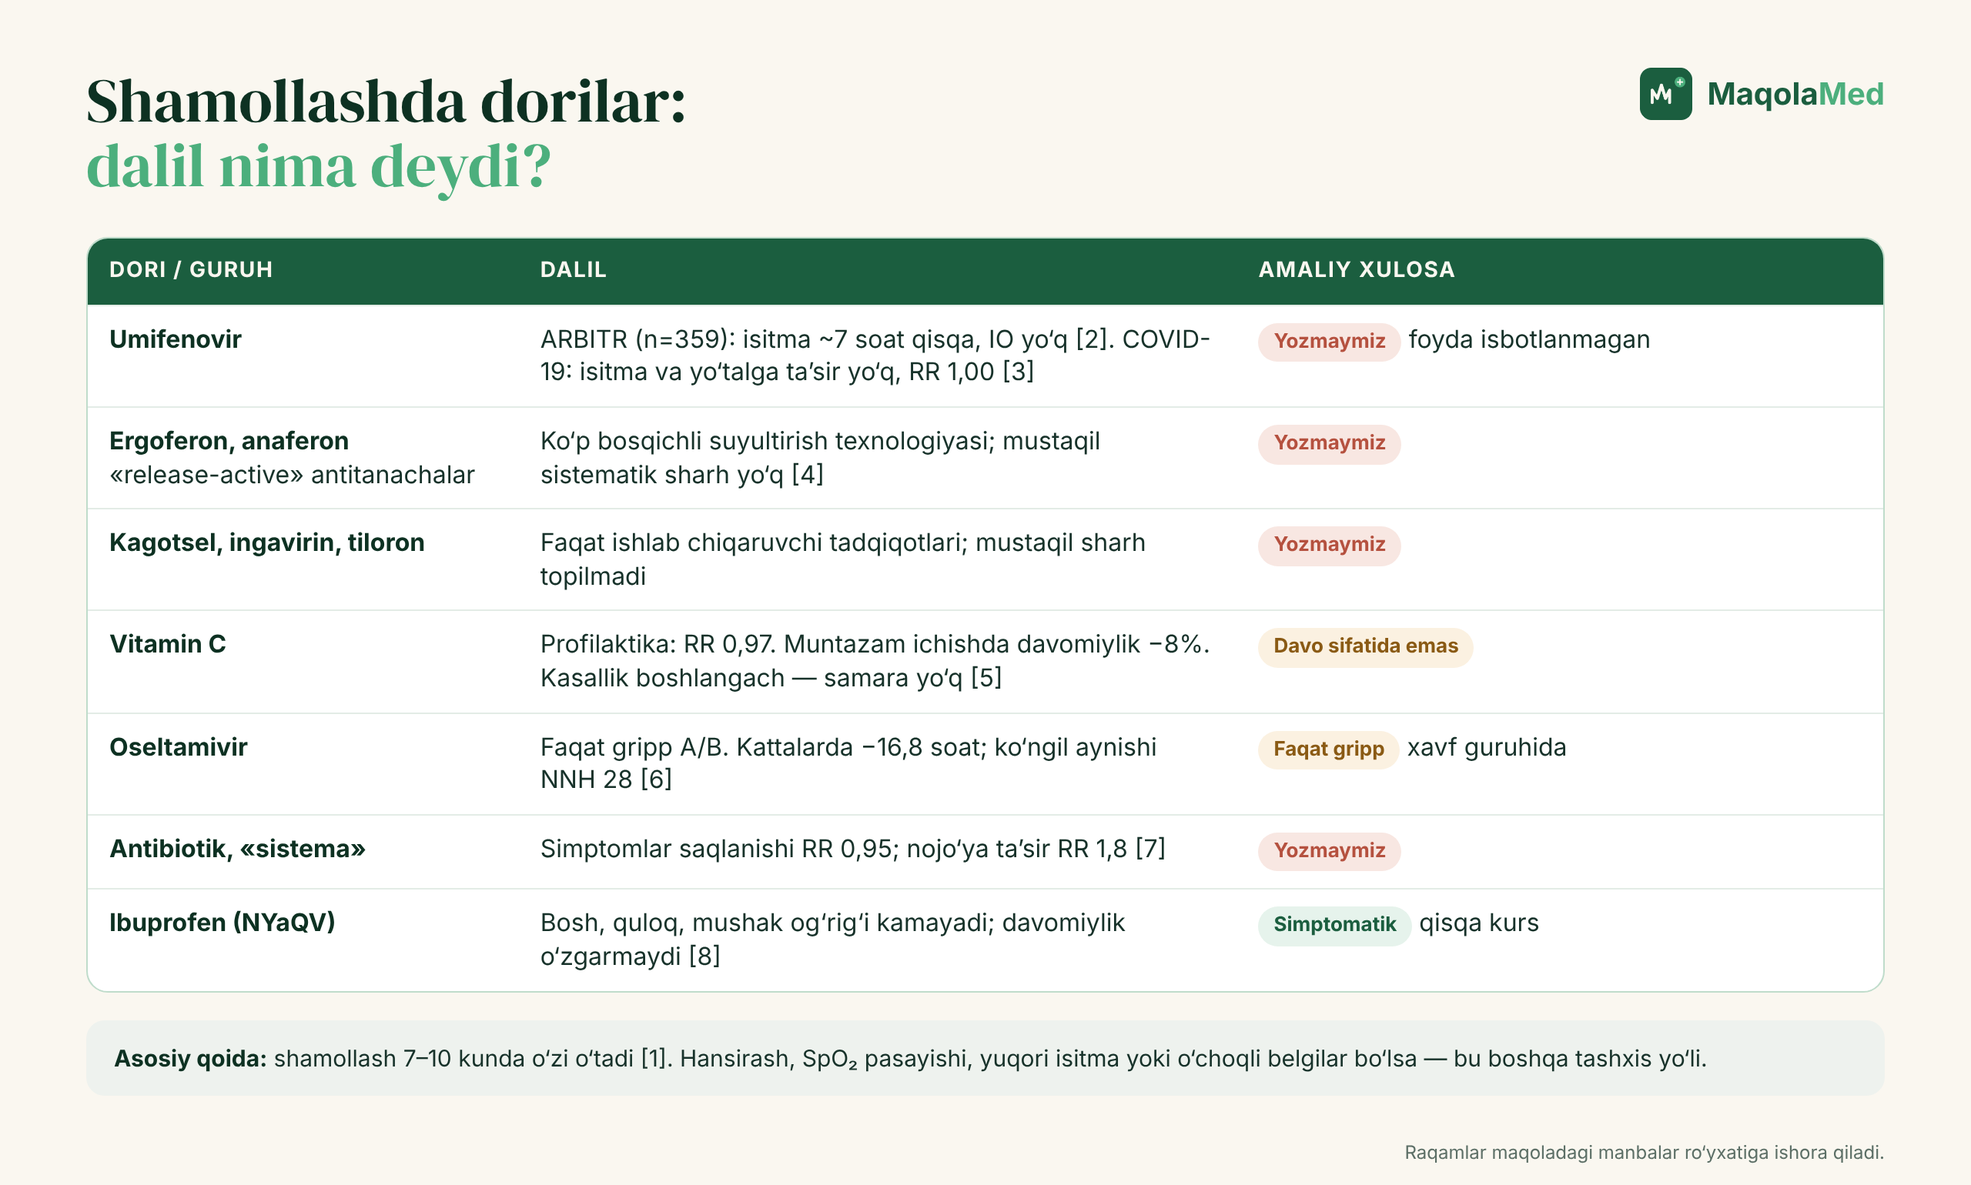
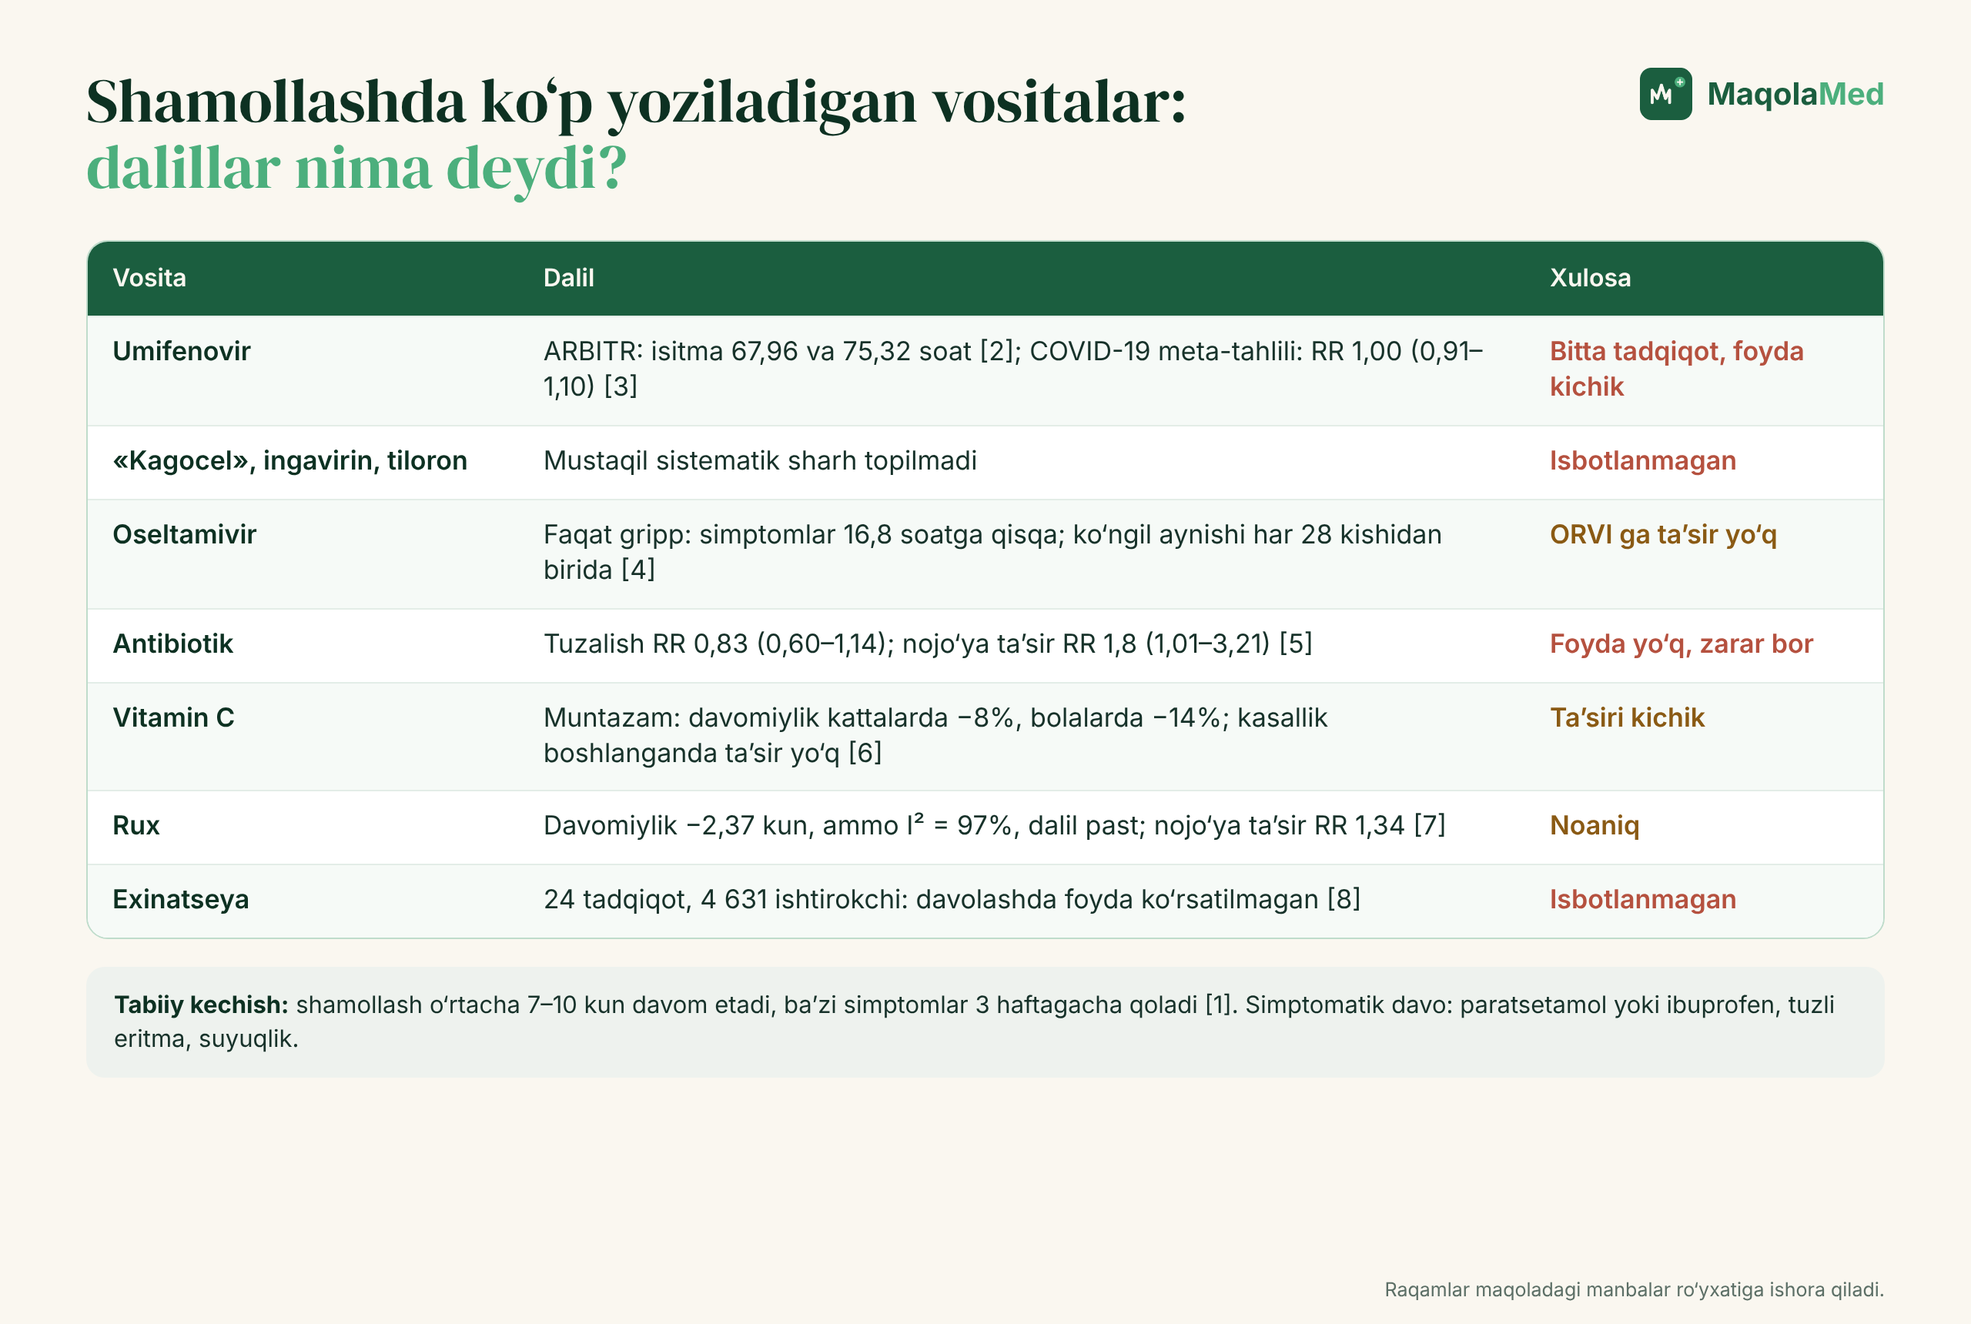
30-noyabr maqolasi qayta yozildi (v2, humanizer): shamollashda «virusga qarshi» dorilar — muqovalar, 1 rasm

diff --git a/_manba/2026-11-30/muqova-instagram-4x5.html b/_manba/2026-11-30/muqova-instagram-4x5.html
@@ -1,0 +1,84 @@
+<!doctype html>
+<html lang="uz">
+<head>
+<meta charset="utf-8"><base href="file:///home/claude/maqolamed-rasmlar/_shablon/">
+<style>
+@font-face{font-family:"DM Serif Display";src:url("fonts/dm-serif-display-latin-400-normal.woff2") format("woff2");}
+@font-face{font-family:"DM Serif Display";src:url("fonts/dm-serif-display-latin-ext-400-normal.woff2") format("woff2");unicode-range:U+0100-024F,U+1E00-1EFF;}
+:root{
+  --emerald:#1B5E3F; --deep:#0D3122; --cream:#FAF7F0; --mint:#7FC9A0; --green:#4CAF7D;
+}
+*{margin:0;padding:0;box-sizing:border-box}
+html,body{width:1280px;height:720px;overflow:hidden;background:var(--deep)}
+.cover{position:relative;width:1280px;height:720px;overflow:hidden;font-family:"Inter",sans-serif;color:var(--cream);
+  background:
+    radial-gradient(900px 600px at 78% 40%, rgba(76,175,125,.22), transparent 60%),
+    radial-gradient(700px 500px at 0% 100%, rgba(13,49,34,.9), transparent 70%),
+    linear-gradient(135deg,#123F2C 0%, #1B5E3F 55%, #164D34 100%);}
+.grid{position:absolute;inset:0;background-image:
+    linear-gradient(rgba(250,247,240,.035) 1px,transparent 1px),
+    linear-gradient(90deg,rgba(250,247,240,.035) 1px,transparent 1px);
+  background-size:40px 40px;}
+.ekg{position:absolute;left:0;top:300px;width:1280px;height:200px;opacity:.16}
+.left{position:absolute;left:64px;top:52px;width:690px}
+.brand{display:flex;align-items:center;gap:28px}
+.brand img{height:62px;display:block}
+.tag{display:flex;align-items:center;gap:14px;font-size:13px;letter-spacing:.32em;color:rgba(250,247,240,.72);font-weight:500}
+.tag i{width:4px;height:4px;border-radius:50%;background:var(--mint);display:inline-block}
+.tag .line{width:90px;height:1px;background:rgba(250,247,240,.35)}
+.kicker{margin-top:54px;display:inline-flex;align-items:center;gap:10px;font-size:15px;font-weight:600;letter-spacing:.14em;text-transform:uppercase;color:var(--mint)}
+.kicker span{display:inline-block;width:28px;height:2px;background:var(--mint)}
+h1{margin-top:16px;font-family:"DM Serif Display",serif;font-weight:400;font-size:78px;line-height:.98;letter-spacing:-.01em;color:var(--cream)}
+h1 em{font-style:normal;color:var(--mint)}
+.sub{margin-top:22px;font-size:21px;color:rgba(250,247,240,.82);font-weight:400}
+.points{position:absolute;left:64px;bottom:50px;display:flex;gap:0}
+.pt{width:172px;padding-right:18px;display:flex;flex-direction:column;align-items:flex-start;gap:12px}
+.pt + .pt{padding-left:22px;border-left:1px solid rgba(250,247,240,.18)}
+.ic{width:52px;height:52px;border-radius:50%;border:1.6px solid rgba(250,247,240,.75);display:grid;place-items:center}
+.ic svg{width:26px;height:26px;stroke:var(--cream);fill:none;stroke-width:1.7;stroke-linecap:round;stroke-linejoin:round}
+.pt p{font-size:15px;line-height:1.3;color:rgba(250,247,240,.92);font-weight:500}
+.card{position:absolute;right:56px;top:96px;width:400px;border-radius:22px;padding:28px 30px 26px;
+  background:linear-gradient(160deg,rgba(13,49,34,.82),rgba(13,49,34,.62));
+  border:1px solid rgba(127,201,160,.35);box-shadow:0 30px 60px rgba(0,0,0,.35)}
+.card .ch{display:flex;justify-content:space-between;align-items:center}
+.card .lbl{font-size:12px;letter-spacing:.24em;font-weight:600;color:var(--mint)}
+.card .pill{font-size:12px;font-weight:600;padding:5px 10px;border-radius:999px;background:rgba(127,201,160,.16);color:var(--mint)}
+.card h3{margin-top:14px;font-size:22px;font-weight:600}
+.card h3 small{display:block;margin-top:4px;font-size:14px;font-weight:400;color:rgba(250,247,240,.65)}
+.rows{margin-top:18px;border-top:1px solid rgba(250,247,240,.14)}
+.row{display:flex;justify-content:space-between;padding:9px 0;border-bottom:1px solid rgba(250,247,240,.10);font-size:16px}
+.row span:first-child{color:rgba(250,247,240,.68)}
+.row span:last-child{font-weight:600;font-variant-numeric:tabular-nums}
+.row .ok{color:var(--mint)}
+.quote{margin-top:18px;font-family:"DM Serif Display",serif;font-size:21px;line-height:1.25;color:var(--cream)}
+.ask{margin-top:16px;display:flex;align-items:center;justify-content:space-between;padding:13px 16px;border-radius:12px;background:var(--green);color:#0D3122;font-weight:700;font-size:17px}
+.ask svg{width:22px;height:22px;stroke:#0D3122;fill:none;stroke-width:2.2;stroke-linecap:round;stroke-linejoin:round}
+
+html,body{width:1080px;height:1350px}
+.cover{width:1080px;height:1350px}
+.ekg{top:525px;width:1080px}
+.left{left:72px;top:64px;width:940px}
+.brand img{height:72px}
+h1{font-size:96px;margin-top:18px}
+.kicker{margin-top:56px;font-size:17px}
+.sub{font-size:24px}
+.card{left:72px;right:72px;top:auto;bottom:250px;width:auto;padding:30px 34px}
+.rows{display:grid;grid-template-columns:1fr 1fr;column-gap:40px}
+.quote{font-size:24px}
+.points{left:72px;right:72px;bottom:60px}
+.pt{width:auto;flex:1}
+.pt p{font-size:17px}
+
+</style>
+</head>
+<body><div class="cover"><div class="grid"></div>
+<svg class="ekg" viewBox="0 0 1280 200" preserveAspectRatio="none"><polyline fill="none" stroke="#7FC9A0" stroke-width="3" stroke-linejoin="round" stroke-linecap="round" points="0,120 640,120 670,120 690,98 710,120 750,120 770,40 795,175 820,120 880,120 905,102 930,120 1280,120"/></svg>
+<div class="left"><div class="brand"><img src="logo_dark_bg.png" alt="MaqolaMed"></div>
+<div class="tag" style="margin-top:22px"><span>ILM</span><i></i><span>AMALIYOT</span><i></i><span>ODAM UCHUN</span><span class="line"></span></div>
+<div class="kicker"><span></span>Afsona va dalil · Infeksion kasalliklar</div>
+<h1>Shamollashda<br>«virusga qarshi»<br><em>dorilar: 4 afsona</em></h1>
+<div class="sub">Umifenovirdan vitamin C gacha: dalillar nima deydi.</div></div>
+<div class="points"><div class="pt"><div class="ic"><svg viewBox="0 0 24 24"><rect x="3" y="8.5" width="18" height="7" rx="3.5" transform="rotate(-40 12 12)"/><path d="M9.3 9.3l5.4 5.4"/></svg></div><p>Umifenovir nima beradi?</p></div><div class="pt"><div class="ic"><svg viewBox="0 0 24 24"><circle cx="12" cy="12" r="9"/><path d="M9.5 9.5a2.5 2.5 0 1 1 3.5 2.3c-.7.3-1 .8-1 1.5v.7"/><path d="M12 17v.5"/></svg></div><p>Oseltamivir kimga kerak?</p></div><div class="pt"><div class="ic"><svg viewBox="0 0 24 24"><path d="M12 3l9.5 17h-19z"/><path d="M12 10v4.5"/><path d="M12 17.5v.3"/></svg></div><p>Antibiotik asoratdan saqlaydimi?</p></div><div class="pt"><div class="ic"><svg viewBox="0 0 24 24"><path d="M12 3l8 3v6c0 5-3.5 8-8 9-4.5-1-8-4-8-9V6z"/></svg></div><p>Vitamin C va rux yordam beradimi?</p></div></div>
+<div class="card"><div class="ch"><span class="lbl">AFSONA → DALIL</span><span class="pill">4 afsona</span></div>
+<h3>Shamollash va dorilar<small>Cochrane va RNTlar bo‘yicha</small></h3><div class="rows"><div class="row"><span>Virusga qarshi dori tuzatadi</span><span class="ok">isitma ~7 soat</span></div><div class="row"><span>Oseltamivir har qanday ORVI ga</span><span class="ok">faqat gripp</span></div><div class="row"><span>Antibiotik asoratdan saqlaydi</span><span class="ok">foyda yo‘q</span></div><div class="row"><span>Vitamin C, rux kasallikni qisqartiradi</span><span class="ok">ta’sir kichik</span></div></div><div class="quote">«Hammasini birga ichsam bo‘ladimi?»</div><div class="ask">Siz nima deysiz?<svg viewBox="0 0 24 24"><path d="M5 12h14"/><path d="M13 6l6 6-6 6"/></svg></div></div>
+</div></body></html>

diff --git a/_manba/2026-11-30/muqova-16x9.html b/_manba/2026-11-30/muqova-16x9.html
@@ -1,0 +1,69 @@
+<!doctype html>
+<html lang="uz">
+<head>
+<meta charset="utf-8"><base href="file:///home/claude/maqolamed-rasmlar/_shablon/">
+<style>
+@font-face{font-family:"DM Serif Display";src:url("fonts/dm-serif-display-latin-400-normal.woff2") format("woff2");}
+@font-face{font-family:"DM Serif Display";src:url("fonts/dm-serif-display-latin-ext-400-normal.woff2") format("woff2");unicode-range:U+0100-024F,U+1E00-1EFF;}
+:root{
+  --emerald:#1B5E3F; --deep:#0D3122; --cream:#FAF7F0; --mint:#7FC9A0; --green:#4CAF7D;
+}
+*{margin:0;padding:0;box-sizing:border-box}
+html,body{width:1280px;height:720px;overflow:hidden;background:var(--deep)}
+.cover{position:relative;width:1280px;height:720px;overflow:hidden;font-family:"Inter",sans-serif;color:var(--cream);
+  background:
+    radial-gradient(900px 600px at 78% 40%, rgba(76,175,125,.22), transparent 60%),
+    radial-gradient(700px 500px at 0% 100%, rgba(13,49,34,.9), transparent 70%),
+    linear-gradient(135deg,#123F2C 0%, #1B5E3F 55%, #164D34 100%);}
+.grid{position:absolute;inset:0;background-image:
+    linear-gradient(rgba(250,247,240,.035) 1px,transparent 1px),
+    linear-gradient(90deg,rgba(250,247,240,.035) 1px,transparent 1px);
+  background-size:40px 40px;}
+.ekg{position:absolute;left:0;top:300px;width:1280px;height:200px;opacity:.16}
+.left{position:absolute;left:64px;top:52px;width:690px}
+.brand{display:flex;align-items:center;gap:28px}
+.brand img{height:62px;display:block}
+.tag{display:flex;align-items:center;gap:14px;font-size:13px;letter-spacing:.32em;color:rgba(250,247,240,.72);font-weight:500}
+.tag i{width:4px;height:4px;border-radius:50%;background:var(--mint);display:inline-block}
+.tag .line{width:90px;height:1px;background:rgba(250,247,240,.35)}
+.kicker{margin-top:54px;display:inline-flex;align-items:center;gap:10px;font-size:15px;font-weight:600;letter-spacing:.14em;text-transform:uppercase;color:var(--mint)}
+.kicker span{display:inline-block;width:28px;height:2px;background:var(--mint)}
+h1{margin-top:16px;font-family:"DM Serif Display",serif;font-weight:400;font-size:78px;line-height:.98;letter-spacing:-.01em;color:var(--cream)}
+h1 em{font-style:normal;color:var(--mint)}
+.sub{margin-top:22px;font-size:21px;color:rgba(250,247,240,.82);font-weight:400}
+.points{position:absolute;left:64px;bottom:50px;display:flex;gap:0}
+.pt{width:172px;padding-right:18px;display:flex;flex-direction:column;align-items:flex-start;gap:12px}
+.pt + .pt{padding-left:22px;border-left:1px solid rgba(250,247,240,.18)}
+.ic{width:52px;height:52px;border-radius:50%;border:1.6px solid rgba(250,247,240,.75);display:grid;place-items:center}
+.ic svg{width:26px;height:26px;stroke:var(--cream);fill:none;stroke-width:1.7;stroke-linecap:round;stroke-linejoin:round}
+.pt p{font-size:15px;line-height:1.3;color:rgba(250,247,240,.92);font-weight:500}
+.card{position:absolute;right:56px;top:96px;width:400px;border-radius:22px;padding:28px 30px 26px;
+  background:linear-gradient(160deg,rgba(13,49,34,.82),rgba(13,49,34,.62));
+  border:1px solid rgba(127,201,160,.35);box-shadow:0 30px 60px rgba(0,0,0,.35)}
+.card .ch{display:flex;justify-content:space-between;align-items:center}
+.card .lbl{font-size:12px;letter-spacing:.24em;font-weight:600;color:var(--mint)}
+.card .pill{font-size:12px;font-weight:600;padding:5px 10px;border-radius:999px;background:rgba(127,201,160,.16);color:var(--mint)}
+.card h3{margin-top:14px;font-size:22px;font-weight:600}
+.card h3 small{display:block;margin-top:4px;font-size:14px;font-weight:400;color:rgba(250,247,240,.65)}
+.rows{margin-top:18px;border-top:1px solid rgba(250,247,240,.14)}
+.row{display:flex;justify-content:space-between;padding:9px 0;border-bottom:1px solid rgba(250,247,240,.10);font-size:16px}
+.row span:first-child{color:rgba(250,247,240,.68)}
+.row span:last-child{font-weight:600;font-variant-numeric:tabular-nums}
+.row .ok{color:var(--mint)}
+.quote{margin-top:18px;font-family:"DM Serif Display",serif;font-size:21px;line-height:1.25;color:var(--cream)}
+.ask{margin-top:16px;display:flex;align-items:center;justify-content:space-between;padding:13px 16px;border-radius:12px;background:var(--green);color:#0D3122;font-weight:700;font-size:17px}
+.ask svg{width:22px;height:22px;stroke:#0D3122;fill:none;stroke-width:2.2;stroke-linecap:round;stroke-linejoin:round}
+
+</style>
+</head>
+<body><div class="cover"><div class="grid"></div>
+<svg class="ekg" viewBox="0 0 1280 200" preserveAspectRatio="none"><polyline fill="none" stroke="#7FC9A0" stroke-width="3" stroke-linejoin="round" stroke-linecap="round" points="0,120 640,120 670,120 690,98 710,120 750,120 770,40 795,175 820,120 880,120 905,102 930,120 1280,120"/></svg>
+<div class="left"><div class="brand"><img src="logo_dark_bg.png" alt="MaqolaMed"></div>
+<div class="tag" style="margin-top:22px"><span>ILM</span><i></i><span>AMALIYOT</span><i></i><span>ODAM UCHUN</span><span class="line"></span></div>
+<div class="kicker"><span></span>Afsona va dalil · Infeksion kasalliklar</div>
+<h1>Shamollashda<br>«virusga qarshi»<br><em>dorilar: 4 afsona</em></h1>
+<div class="sub">Umifenovirdan vitamin C gacha: dalillar nima deydi.</div></div>
+<div class="points"><div class="pt"><div class="ic"><svg viewBox="0 0 24 24"><rect x="3" y="8.5" width="18" height="7" rx="3.5" transform="rotate(-40 12 12)"/><path d="M9.3 9.3l5.4 5.4"/></svg></div><p>Umifenovir nima beradi?</p></div><div class="pt"><div class="ic"><svg viewBox="0 0 24 24"><circle cx="12" cy="12" r="9"/><path d="M9.5 9.5a2.5 2.5 0 1 1 3.5 2.3c-.7.3-1 .8-1 1.5v.7"/><path d="M12 17v.5"/></svg></div><p>Oseltamivir kimga kerak?</p></div><div class="pt"><div class="ic"><svg viewBox="0 0 24 24"><path d="M12 3l9.5 17h-19z"/><path d="M12 10v4.5"/><path d="M12 17.5v.3"/></svg></div><p>Antibiotik asoratdan saqlaydimi?</p></div><div class="pt"><div class="ic"><svg viewBox="0 0 24 24"><path d="M12 3l8 3v6c0 5-3.5 8-8 9-4.5-1-8-4-8-9V6z"/></svg></div><p>Vitamin C va rux yordam beradimi?</p></div></div>
+<div class="card"><div class="ch"><span class="lbl">AFSONA → DALIL</span><span class="pill">4 afsona</span></div>
+<h3>Shamollash va dorilar<small>Cochrane va RNTlar bo‘yicha</small></h3><div class="rows"><div class="row"><span>Virusga qarshi dori tuzatadi</span><span class="ok">isitma ~7 soat</span></div><div class="row"><span>Oseltamivir har qanday ORVI ga</span><span class="ok">faqat gripp</span></div><div class="row"><span>Antibiotik asoratdan saqlaydi</span><span class="ok">foyda yo‘q</span></div><div class="row"><span>Vitamin C, rux kasallikni qisqartiradi</span><span class="ok">ta’sir kichik</span></div></div><div class="quote">«Hammasini birga ichsam bo‘ladimi?»</div><div class="ask">Siz nima deysiz?<svg viewBox="0 0 24 24"><path d="M5 12h14"/><path d="M13 6l6 6-6 6"/></svg></div></div>
+</div></body></html>

diff --git a/_manba/2026-11-30/1-rasm.html b/_manba/2026-11-30/1-rasm.html
@@ -1,0 +1,48 @@
+<!doctype html><html lang="uz"><head><meta charset="utf-8"><base href="file:///home/claude/maqolamed-rasmlar/_shablon/"><style>
+@font-face{font-family:"DM Serif Display";src:url("fonts/dm-serif-display-latin-400-normal.woff2") format("woff2");}
+@font-face{font-family:"DM Serif Display";src:url("fonts/dm-serif-display-latin-ext-400-normal.woff2") format("woff2");unicode-range:U+0100-024F,U+1E00-1EFF;}
+:root{--emerald:#1B5E3F;--deep:#0D3122;--cream:#FAF7F0;--mint:#7FC9A0;--green:#4CAF7D;--ink:#17322A;--muted:#5C6F66;--amber:#C98A2E;--amberbg:#FBF1E1;--red:#B5513F;--redbg:#F8E7E2}
+*{margin:0;padding:0;box-sizing:border-box}
+html,body{width:1280px;height:860px;background:var(--cream);overflow:hidden}
+.fig{position:relative;width:1280px;height:860px;padding:44px 56px;font-family:"Inter",sans-serif;color:var(--ink)}
+.top{display:flex;justify-content:space-between;align-items:flex-start;margin-bottom:26px}
+h1{font-family:"DM Serif Display",serif;font-weight:400;font-size:40px;line-height:1.08;color:var(--deep)}
+h1 em{font-style:normal;color:var(--green)}
+.brand{display:flex;align-items:center;gap:10px;font-weight:700;font-size:20px;color:var(--emerald);white-space:nowrap}
+.brand img{height:34px}.brand b{color:var(--green);font-weight:700}
+table{width:100%;border-collapse:separate;border-spacing:0;font-size:17px;line-height:1.35;background:#fff;border-radius:14px;overflow:hidden;border:1.5px solid #BFDCCB}
+th{background:var(--emerald);color:var(--cream);text-align:left;padding:13px 16px;font-size:16px;font-weight:600}
+td{padding:12px 16px;border-top:1px solid #E3EDE7;vertical-align:top}
+td:first-child{font-weight:600;color:var(--deep);width:24%}
+tr:nth-child(even) td{background:#F6FAF7}
+.good{color:var(--emerald);font-weight:600}.bad{color:var(--red);font-weight:600}.mid{color:#8A5A14;font-weight:600}
+.row3{display:flex;gap:20px}
+.box{flex:1;border-radius:14px;padding:16px 18px;font-size:16px;line-height:1.42;background:#fff;border:1.5px solid #BFDCCB}
+.box b.t{display:block;font-size:18px;margin-bottom:6px;color:var(--deep)}
+.box.g{border-color:#BFDCCB}.box.a{border-color:#EBD3A9;background:#FFFDF8}.box.r{border-color:#E8C3BA;background:#FFFBFA}
+.box.dark{background:var(--emerald);color:var(--cream);border:none}.box.dark b.t{color:var(--cream)}
+.step{display:flex;gap:16px;align-items:flex-start;background:#fff;border:1.5px solid #BFDCCB;border-radius:14px;padding:14px 18px;margin-bottom:12px;font-size:16.5px;line-height:1.42}
+.num{flex:none;width:40px;height:40px;border-radius:50%;background:var(--emerald);color:var(--cream);display:grid;place-items:center;font-weight:700;font-size:19px}
+.step b.t{display:block;font-size:18px;color:var(--deep);margin-bottom:3px}
+.tag{display:inline-block;font-size:12.5px;font-weight:700;letter-spacing:.1em;text-transform:uppercase;padding:5px 11px;border-radius:999px;margin-bottom:10px}
+.tg{background:#DDEFE5;color:var(--emerald)}.ta{background:var(--amberbg);color:#8A5A14}.tr{background:var(--redbg);color:var(--red)}
+.note{margin-top:18px;padding:14px 18px;border-radius:12px;background:#EEF2EE;font-size:15.5px;line-height:1.42}
+.note b{color:var(--deep)}
+.src{position:absolute;right:56px;bottom:14px;font-size:12.5px;color:var(--muted)}
+ul.l{margin:6px 0 0 18px}ul.l li{margin:3px 0}
+</style></head><body><div class="fig">
+<div class="top"><h1>Shamollashda ko‘p yoziladigan vositalar:<br><em>dalillar nima deydi?</em></h1><div class="brand"><img src="icon.png" alt=""><span>Maqola<b>Med</b></span></div></div>
+
+<table>
+<tr><th>Vosita</th><th>Dalil</th><th>Xulosa</th></tr>
+<tr><td>Umifenovir</td><td>ARBITR: isitma 67,96 va 75,32 soat [2]; COVID-19 meta-tahlili: RR 1,00 (0,91–1,10) [3]</td><td class="bad">Bitta tadqiqot, foyda kichik</td></tr>
+<tr><td>«Kagocel», ingavirin, tiloron</td><td>Mustaqil sistematik sharh topilmadi</td><td class="bad">Isbotlanmagan</td></tr>
+<tr><td>Oseltamivir</td><td>Faqat gripp: simptomlar 16,8 soatga qisqa; ko‘ngil aynishi har 28 kishidan birida [4]</td><td class="mid">ORVI ga ta’sir yo‘q</td></tr>
+<tr><td>Antibiotik</td><td>Tuzalish RR 0,83 (0,60–1,14); nojo‘ya ta’sir RR 1,8 (1,01–3,21) [5]</td><td class="bad">Foyda yo‘q, zarar bor</td></tr>
+<tr><td>Vitamin C</td><td>Muntazam: davomiylik kattalarda −8%, bolalarda −14%; kasallik boshlanganda ta’sir yo‘q [6]</td><td class="mid">Ta’siri kichik</td></tr>
+<tr><td>Rux</td><td>Davomiylik −2,37 kun, ammo I² = 97%, dalil past; nojo‘ya ta’sir RR 1,34 [7]</td><td class="mid">Noaniq</td></tr>
+<tr><td>Exinatseya</td><td>24 tadqiqot, 4 631 ishtirokchi: davolashda foyda ko‘rsatilmagan [8]</td><td class="bad">Isbotlanmagan</td></tr>
+</table>
+<div class="note"><b>Tabiiy kechish:</b> shamollash o‘rtacha 7–10 kun davom etadi, ba’zi simptomlar 3 haftagacha qoladi [1]. Simptomatik davo: paratsetamol yoki ibuprofen, tuzli eritma, suyuqlik.</div>
+
+<div class="src">Raqamlar maqoladagi manbalar ro‘yxatiga ishora qiladi.</div></div></body></html>
